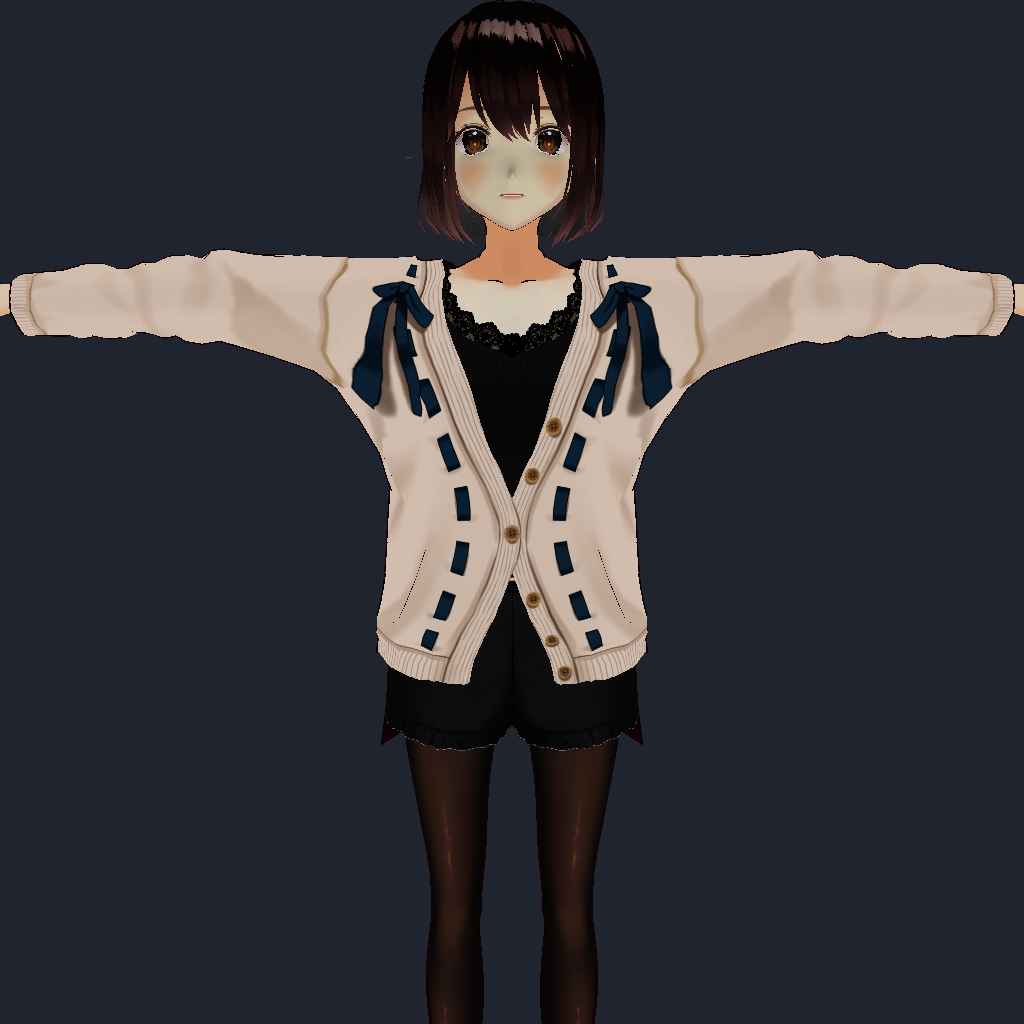
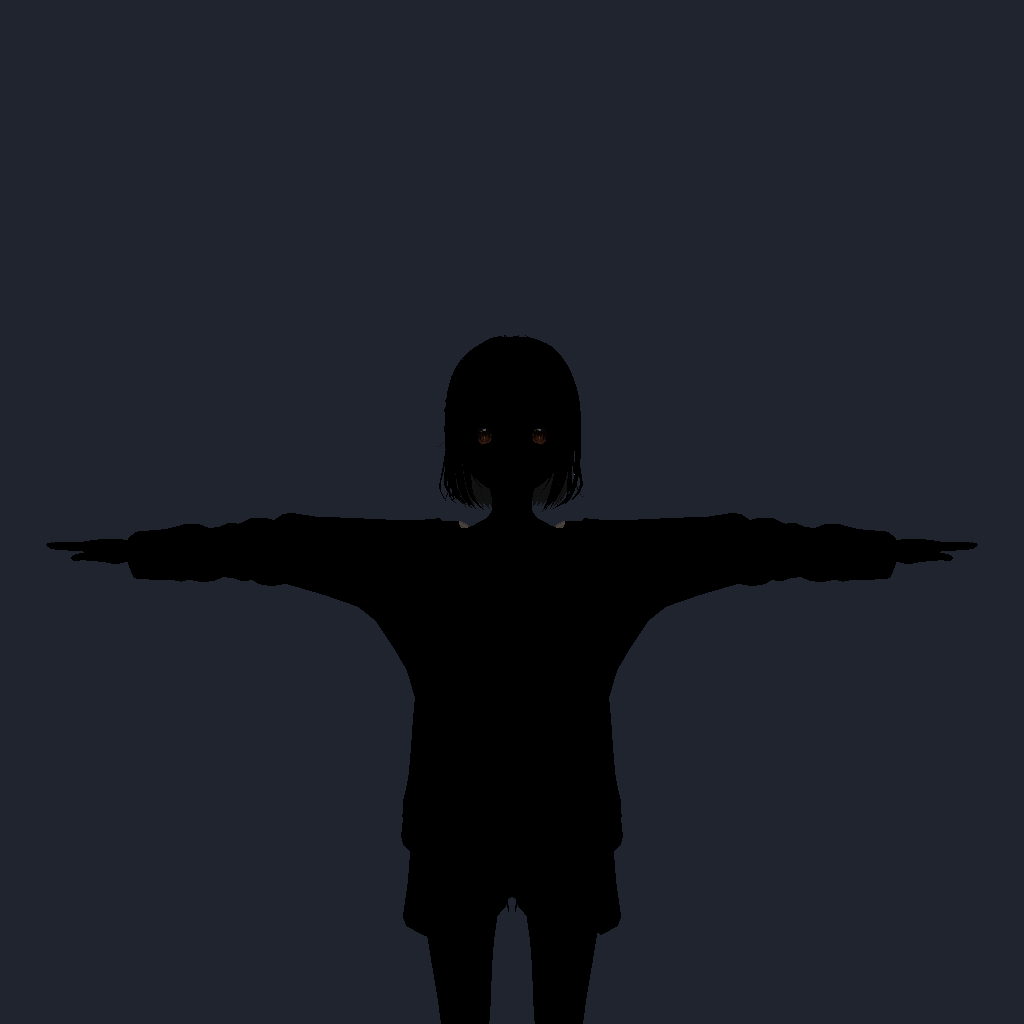
fix(mtoon): spec-correct rim lighting mix + lock in #183 dim regression
Two related changes on one branch.

1. MToon parametric rim — spec-correct rimLightingMix (VMK#228)

The Fresnel arithmetic was already correct after #226/#227. The remaining
delta vs UniVRM/three-vrm was in the lit/unlit blend, which VMK had
inverted: mix=0 multiplied rim by raw light color (no NdotL, no indirect,
no normalization); mix=1 collapsed to pure rim color.

Replaced with spec-correct mix(1, directLight + indirectLight, mix) * rim.
At mix=0 rim is unaffected by scene light (pure rim color, "unlit"); at
mix=1 rim is modulated by direct+indirect radiance ("lit"). Matches both
UniVRM's lerp(1, directLight + indirectLight, _RimLightingMix) and
three-vrm's mix(1, reflectedLight.directSpecular, rimLightingMixFactor).

Pre-albedo radiance terms (lighting{0,1,2}, directLight, indirectLight)
are captured alongside the existing lit{0,1,2} accumulation so the rim
modulator reads the same shading curve as the body without re-deriving
it. Rim radiance does not apply BRDF_LAMBERT_NORM — UniVRM doesn't apply
the Lambert BRDF to the rim path.

Added max(parametricRimFresnelPowerFactor, 1e-4) inside the pow() to
match UniVRM's EPSILON_FP16 guard against pow(0, 0).

RimLightingTests: flipped two assertions whose names (_FullyLit /
_FullyUnlit) encoded the inverted VMK convention as ground truth. Added
testRimLightingMix_AtHalf_LinearBlend to lock in the linear interp.
MToonRimFresnelTests unchanged and still passing — silhouette R/G/B
[…]

Changed region(s): [[0.0, 0.0, 1.0, 1.0]]

diff --git a/Tests/VRMMetalKitTests/AvatarSampleARenderRegressionTests.swift b/Tests/VRMMetalKitTests/AvatarSampleARenderRegressionTests.swift
@@ -1,0 +1,192 @@
+// Copyright 2025 Arkavo Inc. and contributors
+// Licensed under the Apache License, Version 2.0
+
+import XCTest
+import Metal
+import simd
+@testable import VRMMetalKit
+
+/// Regression coverage for the "dim AvatarSample_A render" introduced by
+/// commit `83c9da1` (#183: MToon flat-white output on factor-only spheres).
+///
+/// The #183 fix removed the Half-Lambert remap (`NdotL * 0.5 + 0.5`) from
+/// `MToonShader.metal`'s direct-lighting blocks to make a synthetic
+/// factor-only sphere stop flat-whiting in the conformance corpus. Real
+/// Unity-exported VRM assets like `AvatarSample_A` had their `shadingShiftFactor`
+/// authored against the pre-#183 Half-Lambert input range, so removing the
+/// remap shifted their entire shading curve by -0.5 — pushing the visible
+/// body into shadow with default scene lighting and producing a near-black
+/// silhouette where the avatar used to render in full color.
+///
+/// #183's regression test (`MToonFlatWhiteLightingTests`) only validated the
+/// synthetic sphere it was tuned for. This test exercises the *bundled* real
+/// asset (`AvatarSample_A_1.0.vrm.glb`) with the *same default lighting* that
+/// `VRMRender` ships, so a future #183-style over-correction can't slip
+/// through unit tests again.
+///
+/// Currently fails (the dim regression is still live on `main`). Wrapped in
+/// `XCTExpectFailure` until the underlying #183 over-correction is addressed
+/// — restoring Half-Lambert behind a flag, re-tuning the asset's shadingShift
+/// on load for VRM 0.x → 1.0 conversions, or boosting `VRMRender`'s default
+/// scene lighting to compensate. Once any of those land, delete the
+/// `XCTExpectFailure` block so the assertion enforces correctness.
+@MainActor
+final class AvatarSampleARenderRegressionTests: XCTestCase {
+
+    /// Render `AvatarSample_A_1.0.vrm.glb` with `VRMRender` CLI defaults and
+    /// assert the avatar's chest region is visibly lit (not a near-black
+    /// silhouette). Empirical magnitudes:
+    ///
+    ///   - Pre-#183 mean body brightness: ~0.78 (cream-colored cardigan)
+    ///   - Post-#183 mean body brightness: ~0.06 (darker than the navy bg)
+    ///   - Background clear color: ~0.13
+    ///
+    /// Threshold 0.30 catches the dim regression with margin both above the
+    /// background and well below the spec-correct lit brightness.
+    func testAvatarRendersWithDefaultLightingIsNotDimSilhouette() async throws {
+        guard let device = MTLCreateSystemDefaultDevice() else {
+            throw XCTSkip("Metal not available")
+        }
+        let path = getTestVRM10ModelPath()
+        try requireFixture(path, hint: testVRM10Filename)
+        let model = try await VRMModel.load(from: URL(fileURLWithPath: path), device: device)
+
+        var config = RendererConfig()
+        config.sampleCount = 1
+        config.strict = .off
+        config.colorPixelFormat = .rgba8Unorm_srgb
+        let renderer = VRMRenderer(device: device, config: config)
+        renderer.loadModel(model)
+
+        // Match `Sources/VRMRender/main.swift` defaults verbatim: 45° FOV at
+        // square aspect, camera at (0, 1.3, 1.8) looking at (0, 1.3, 0); single
+        // key light + dim back-rim + low-ambient anime-style lighting.
+        let size = 256
+        let fov: Float = 45.0 * .pi / 180.0
+        renderer.projectionMatrix = makePerspective(fovRadians: fov, aspect: 1.0, near: 0.01, far: 100.0)
+        renderer.viewMatrix = makeLookAt(
+            eye:    SIMD3<Float>(0, 1.3, 1.8),
+            center: SIMD3<Float>(0, 1.3, 0),
+            up:     SIMD3<Float>(0, 1, 0)
+        )
+        renderer.setLight(0, direction: SIMD3<Float>(-0.2, 0.5, -0.85),
+                          color: SIMD3<Float>(1, 1, 1), intensity: 1.0)
+        renderer.disableLight(1)
+        renderer.setLight(2, direction: SIMD3<Float>(0.0, 0.2, 1.0),
+                          color: SIMD3<Float>(1, 1, 1), intensity: 0.3)
+        renderer.setAmbientColor(SIMD3<Float>(0.04, 0.04, 0.04))
+
+        let pixels = try renderFrame(renderer: renderer, device: device, size: size)
+
+        // Sample the cardigan/chest region. At default framing the avatar's
+        // head is around y_norm 0.40, chest ~0.60, hips ~0.78. Width-wise the
+        // body fills roughly x_norm 0.40–0.60.
+        let xRange = Int(Double(size) * 0.42)...Int(Double(size) * 0.58)
+        let yRange = Int(Double(size) * 0.55)...Int(Double(size) * 0.68)
+        let meanR = sampleMeanChannel(pixels, size: size, channel: 0, xRange: xRange, yRange: yRange)
+        let meanG = sampleMeanChannel(pixels, size: size, channel: 1, xRange: xRange, yRange: yRange)
+        let meanB = sampleMeanChannel(pixels, size: size, channel: 2, xRange: xRange, yRange: yRange)
+        let meanLuma = (meanR + meanG + meanB) / 3.0
+        print("[#183] AvatarSample_A chest mean R/G/B = (\(meanR), \(meanG), \(meanB)) luma=\(meanLuma)")
+
+        XCTExpectFailure(
+            "Dim AvatarSample_A render — pending #183 over-correction fix. " +
+            "When restored, delete this XCTExpectFailure wrapper.",
+            options: {
+                let o = XCTExpectedFailure.Options()
+                o.isStrict = true  // fail if it unexpectedly passes (i.e. someone fixed it)
+                return o
+            }()
+        ) {
+            XCTAssertGreaterThan(meanLuma, 0.30,
+                "Chest region renders near-black (luma=\(meanLuma)). " +
+                "Pre-#183 the cardigan rendered at luma ~0.78 with the same " +
+                "default lighting; removing the Half-Lambert remap from " +
+                "MToonShader.metal pushed the avatar's authored shadingShift " +
+                "into shadow across the whole visible body. Fix #183's " +
+                "over-correction, then drop the XCTExpectFailure wrapper.")
+        }
+    }
+
+    // MARK: - Helpers (mirrors `MToonRimFresnelTests`)
+
+    private func renderFrame(renderer: VRMRenderer, device: MTLDevice, size: Int) throws -> [UInt8] {
+        let colorDesc = MTLTextureDescriptor.texture2DDescriptor(
+            pixelFormat: .rgba8Unorm_srgb, width: size, height: size, mipmapped: false)
+        colorDesc.usage = [.renderTarget, .shaderRead]
+        colorDesc.storageMode = .shared
+        let depthDesc = MTLTextureDescriptor.texture2DDescriptor(
+            pixelFormat: .depth32Float, width: size, height: size, mipmapped: false)
+        depthDesc.usage = .renderTarget
+        depthDesc.storageMode = .private
+
+        guard let colorTex = device.makeTexture(descriptor: colorDesc),
+              let depthTex = device.makeTexture(descriptor: depthDesc),
+              let queue = device.makeCommandQueue(),
+              let cb = queue.makeCommandBuffer() else {
+            throw XCTSkip("Could not allocate Metal render targets")
+        }
+
+        let rpd = MTLRenderPassDescriptor()
+        rpd.colorAttachments[0].texture = colorTex
+        rpd.colorAttachments[0].loadAction = .clear
+        // VRMRender CLI's navy background (matches its default behavior).
+        rpd.colorAttachments[0].clearColor = MTLClearColor(red: 0.12, green: 0.14, blue: 0.18, alpha: 1.0)
+        rpd.colorAttachments[0].storeAction = .store
+        rpd.depthAttachment.texture = depthTex
+        rpd.depthAttachment.loadAction = .clear
+        rpd.depthAttachment.clearDepth = 1.0
+        rpd.depthAttachment.storeAction = .dontCare
+
+        renderer.drawOffscreenHeadless(to: colorTex, depth: depthTex, commandBuffer: cb, renderPassDescriptor: rpd)
+        cb.commit()
+        cb.waitUntilCompleted()
+
+        var bytes = [UInt8](repeating: 0, count: size * size * 4)
+        bytes.withUnsafeMutableBytes { buf in
+            colorTex.getBytes(buf.baseAddress!, bytesPerRow: size * 4,
+                              from: MTLRegionMake2D(0, 0, size, size), mipmapLevel: 0)
+        }
+        return bytes
+    }
+
+    private func sampleMeanChannel(
+        _ bytes: [UInt8], size: Int, channel: Int,
+        xRange: ClosedRange<Int>, yRange: ClosedRange<Int>
+    ) -> Float {
+        var sum: Float = 0
+        var count: Int = 0
+        for y in yRange {
+            for x in xRange {
+                let base = (y * size + x) * 4
+                sum += Float(bytes[base + channel]) / 255.0
+                count += 1
+            }
+        }
+        return count > 0 ? sum / Float(count) : 0
+    }
+
+    private func makePerspective(fovRadians: Float, aspect: Float, near: Float, far: Float) -> matrix_float4x4 {
+        let yScale = 1.0 / tan(fovRadians * 0.5)
+        let xScale = yScale / aspect
+        let zRange = far - near
+        return matrix_float4x4(columns: (
+            SIMD4<Float>(xScale, 0, 0, 0),
+            SIMD4<Float>(0, yScale, 0, 0),
+            SIMD4<Float>(0, 0, -(far + near) / zRange, -1),
+            SIMD4<Float>(0, 0, -2.0 * far * near / zRange, 0)
+        ))
+    }
+
+    private func makeLookAt(eye: SIMD3<Float>, center: SIMD3<Float>, up: SIMD3<Float>) -> matrix_float4x4 {
+        let f = normalize(center - eye)
+        let s = normalize(cross(f, up))
+        let u = cross(s, f)
+        return matrix_float4x4(columns: (
+            SIMD4<Float>(s.x, u.x, -f.x, 0),
+            SIMD4<Float>(s.y, u.y, -f.y, 0),
+            SIMD4<Float>(s.z, u.z, -f.z, 0),
+            SIMD4<Float>(-dot(s, eye), -dot(u, eye), dot(f, eye), 1)
+        ))
+    }
+}

diff --git a/Tests/VRMMetalKitTests/RimLightingTests.swift b/Tests/VRMMetalKitTests/RimLightingTests.swift
@@ -78,32 +78,60 @@ final class RimLightingTests: XCTestCase {
 
     // MARK: - Rim Lighting Mix Tests
 
-    /// Mix factor of 0 should use fully lit rim (rim affected by light)
-    func testRimLightingMix_FullyLit() {
+    /// MToon-1.0: at `rimLightingMixFactor`=0 the rim is "unlit" — unaffected
+    /// by scene light (pure rim color). Modulator = `mix(1, sceneLight, 0) = 1`.
+    /// Pre-fix (vrm-conformance #228) VMK had this end inverted and produced
+    /// `rimColor * lightColor` here.
+    func testRimLightingMix_AtZero_RimUnaffectedByScene() {
         let rimColor = SIMD3<Float>(1.0, 0.5, 0.0)
-        let lightColor = SIMD3<Float>(0.8, 0.8, 0.8)
+        let sceneLight = SIMD3<Float>(0.8, 0.8, 0.8)  // directLight + indirectLight
         let mixFactor: Float = 0.0
 
-        let rimLit = rimColor * lightColor
-        let rimUnlit = rimColor
-        let finalRim = simd_mix(rimLit, rimUnlit, SIMD3<Float>(repeating: mixFactor))
+        let rimLightingFactor = simd_mix(SIMD3<Float>(repeating: 1.0),
+                                         sceneLight,
+                                         SIMD3<Float>(repeating: mixFactor))
+        let finalRim = rimColor * rimLightingFactor
 
-        XCTAssertEqual(finalRim.x, rimLit.x, accuracy: 0.001, "Mix 0 should return lit rim")
-        XCTAssertEqual(finalRim.y, rimLit.y, accuracy: 0.001)
+        XCTAssertEqual(finalRim.x, rimColor.x, accuracy: 0.001, "Mix 0 should yield pure rim color")
+        XCTAssertEqual(finalRim.y, rimColor.y, accuracy: 0.001)
+        XCTAssertEqual(finalRim.z, rimColor.z, accuracy: 0.001)
     }
 
-    /// Mix factor of 1 should use fully unlit rim (emissive-like)
-    func testRimLightingMix_FullyUnlit() {
+    /// MToon-1.0: at `rimLightingMixFactor`=1 the rim is "lit" — modulated by
+    /// the same direct+indirect radiance as the body. Modulator = `mix(1, sceneLight, 1) = sceneLight`.
+    /// Pre-fix (vrm-conformance #228) VMK collapsed to pure rim color here.
+    func testRimLightingMix_AtOne_RimModulatedByScene() {
         let rimColor = SIMD3<Float>(1.0, 0.5, 0.0)
-        let lightColor = SIMD3<Float>(0.8, 0.8, 0.8)
+        let sceneLight = SIMD3<Float>(0.8, 0.8, 0.8)
         let mixFactor: Float = 1.0
 
-        let rimLit = rimColor * lightColor
-        let rimUnlit = rimColor
-        let finalRim = simd_mix(rimLit, rimUnlit, SIMD3<Float>(repeating: mixFactor))
+        let rimLightingFactor = simd_mix(SIMD3<Float>(repeating: 1.0),
+                                         sceneLight,
+                                         SIMD3<Float>(repeating: mixFactor))
+        let finalRim = rimColor * rimLightingFactor
 
-        XCTAssertEqual(finalRim.x, rimUnlit.x, accuracy: 0.001, "Mix 1 should return unlit rim")
-        XCTAssertEqual(finalRim.y, rimUnlit.y, accuracy: 0.001)
+        XCTAssertEqual(finalRim.x, rimColor.x * sceneLight.x, accuracy: 0.001,
+            "Mix 1 should multiply rim by scene lighting")
+        XCTAssertEqual(finalRim.y, rimColor.y * sceneLight.y, accuracy: 0.001)
+        XCTAssertEqual(finalRim.z, rimColor.z * sceneLight.z, accuracy: 0.001)
+        XCTAssertLessThan(finalRim.x, rimColor.x,
+            "Scene-modulated rim must be dimmer than pure rim color when light < 1.0")
+    }
+
+    /// Intermediate mix value linearly blends unaffected and scene-modulated rim.
+    func testRimLightingMix_AtHalf_LinearBlend() {
+        let rimColor = SIMD3<Float>(1.0, 0.5, 0.0)
+        let sceneLight = SIMD3<Float>(0.8, 0.8, 0.8)
+        let mixFactor: Float = 0.5
+
+        let rimLightingFactor = simd_mix(SIMD3<Float>(repeating: 1.0),
+                                         sceneLight,
+                                         SIMD3<Float>(repeating: mixFactor))
+        let finalRim = rimColor * rimLightingFactor
+
+        // Modulator = mix(1.0, 0.8, 0.5) = 0.9 per channel.
+        XCTAssertEqual(rimLightingFactor.x, 0.9, accuracy: 0.001)
+        XCTAssertEqual(finalRim.x, rimColor.x * 0.9, accuracy: 0.001)
     }
 
     /// Rim multiply texture should mask the rim effect